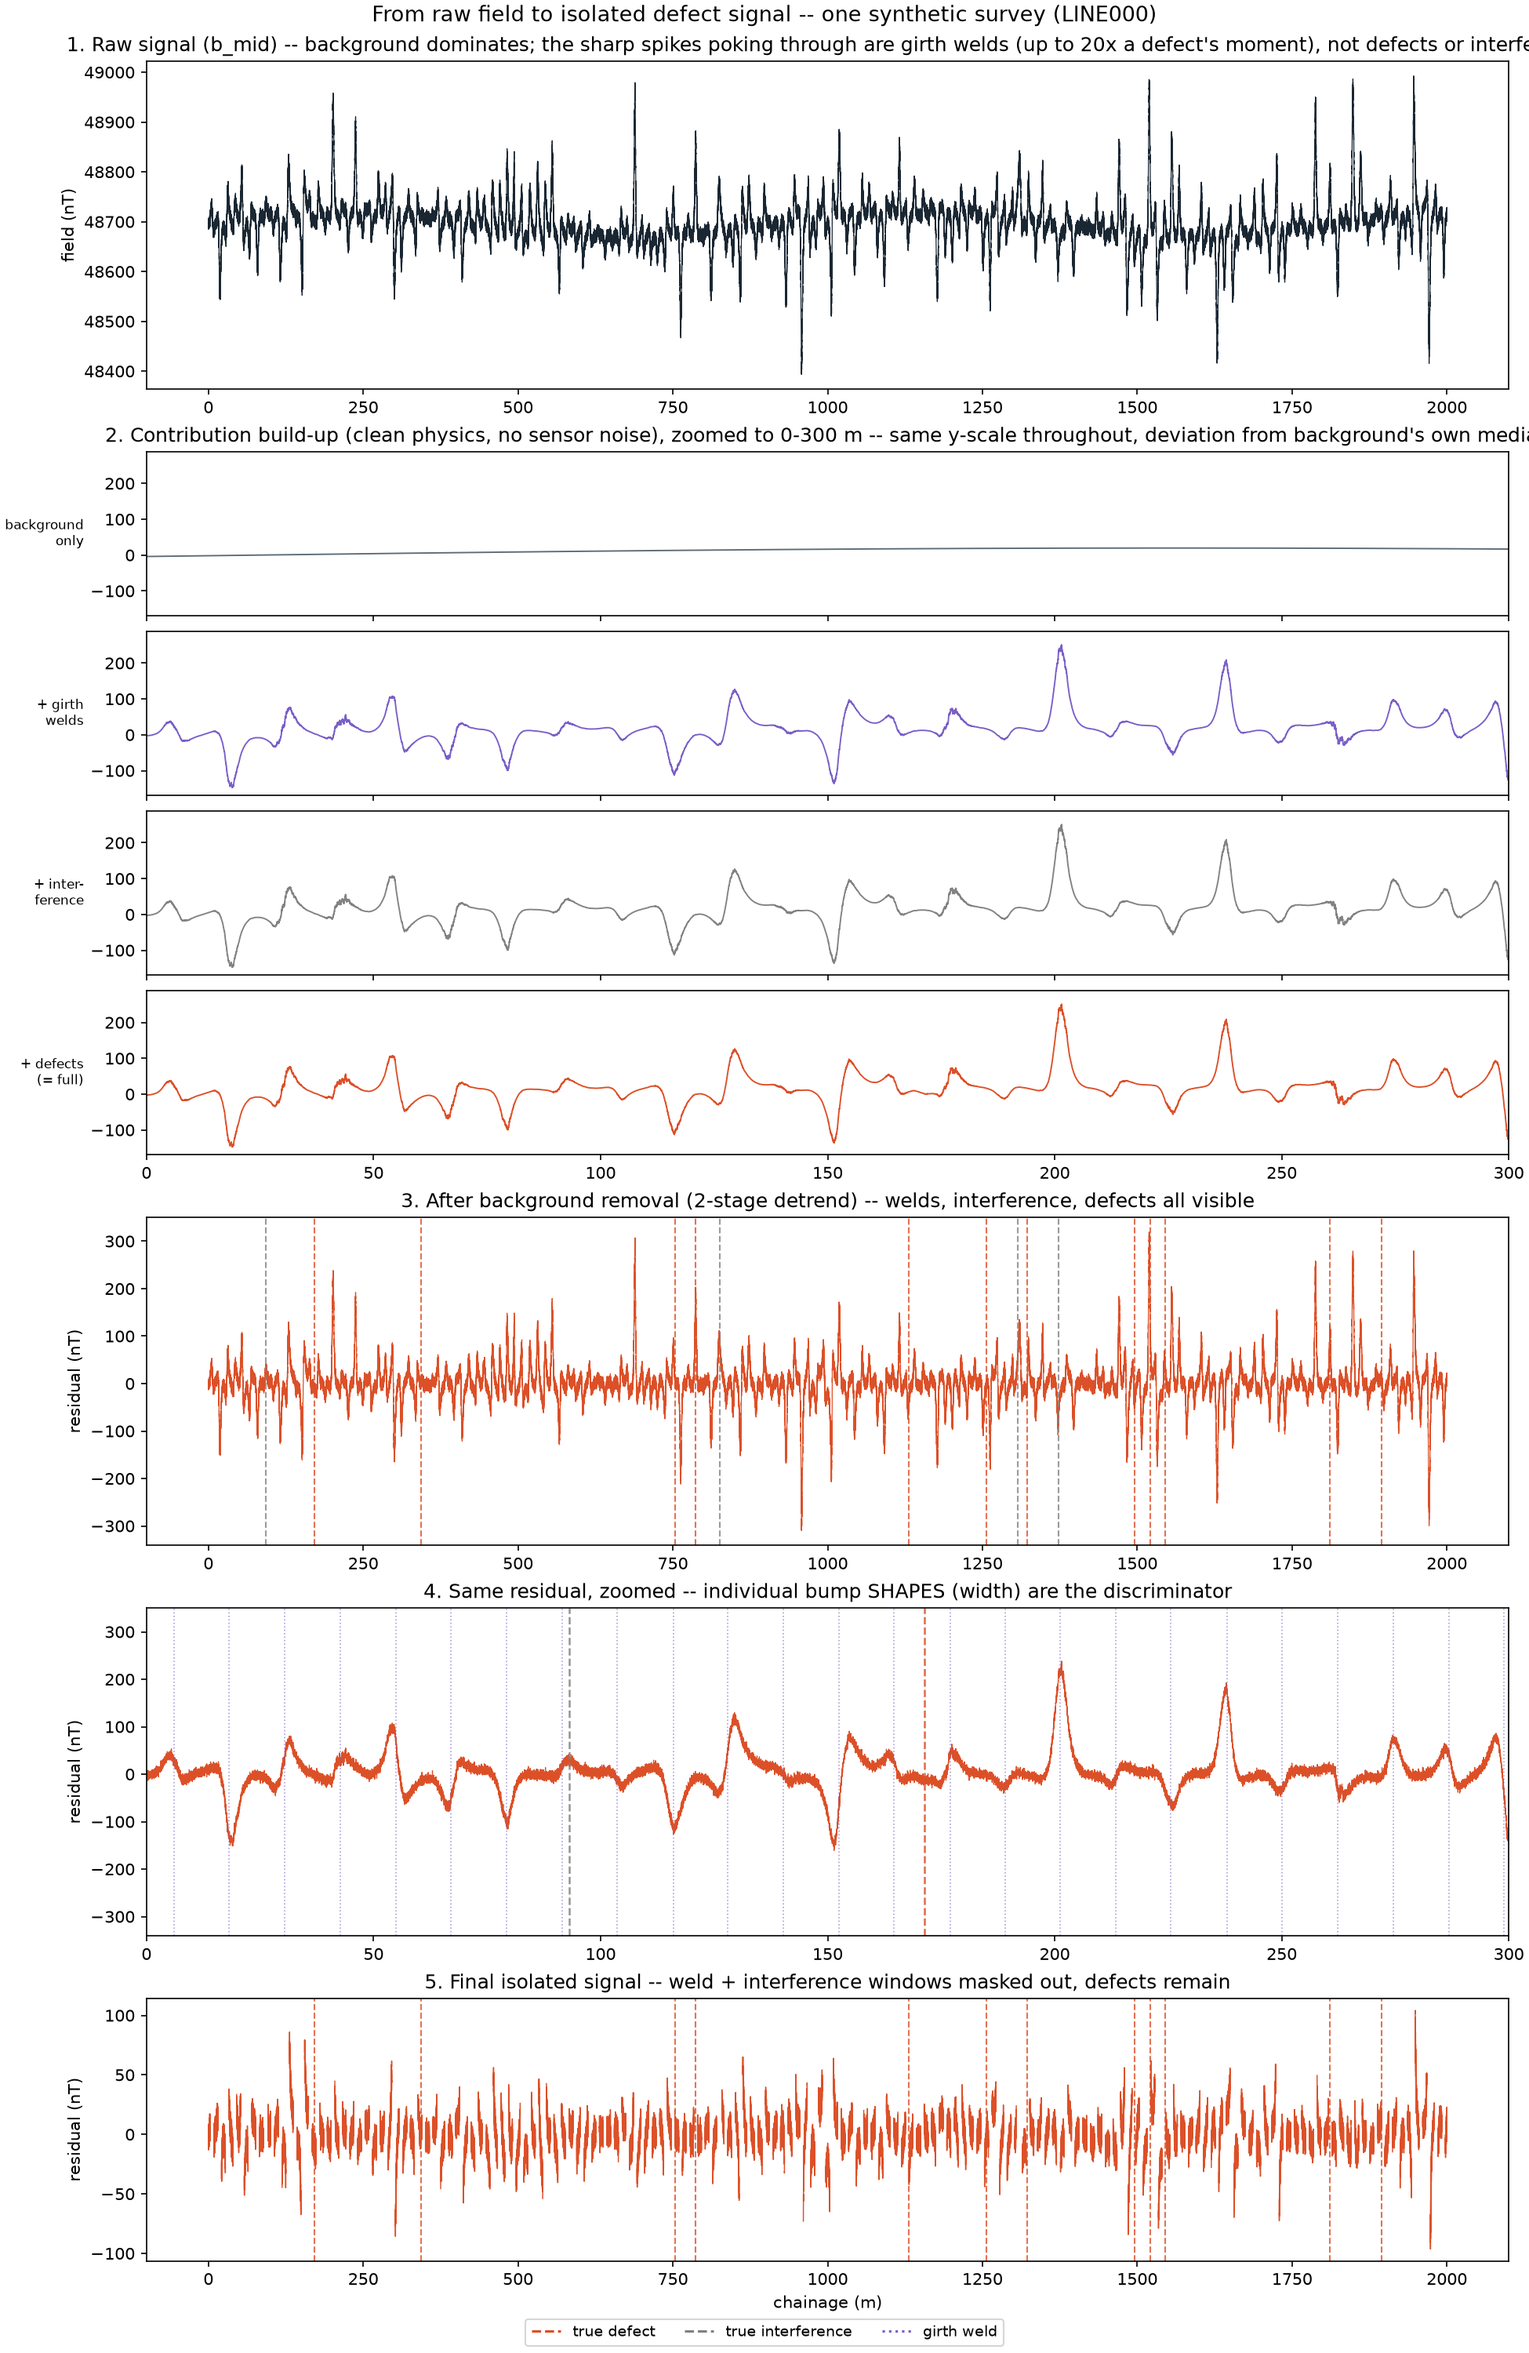
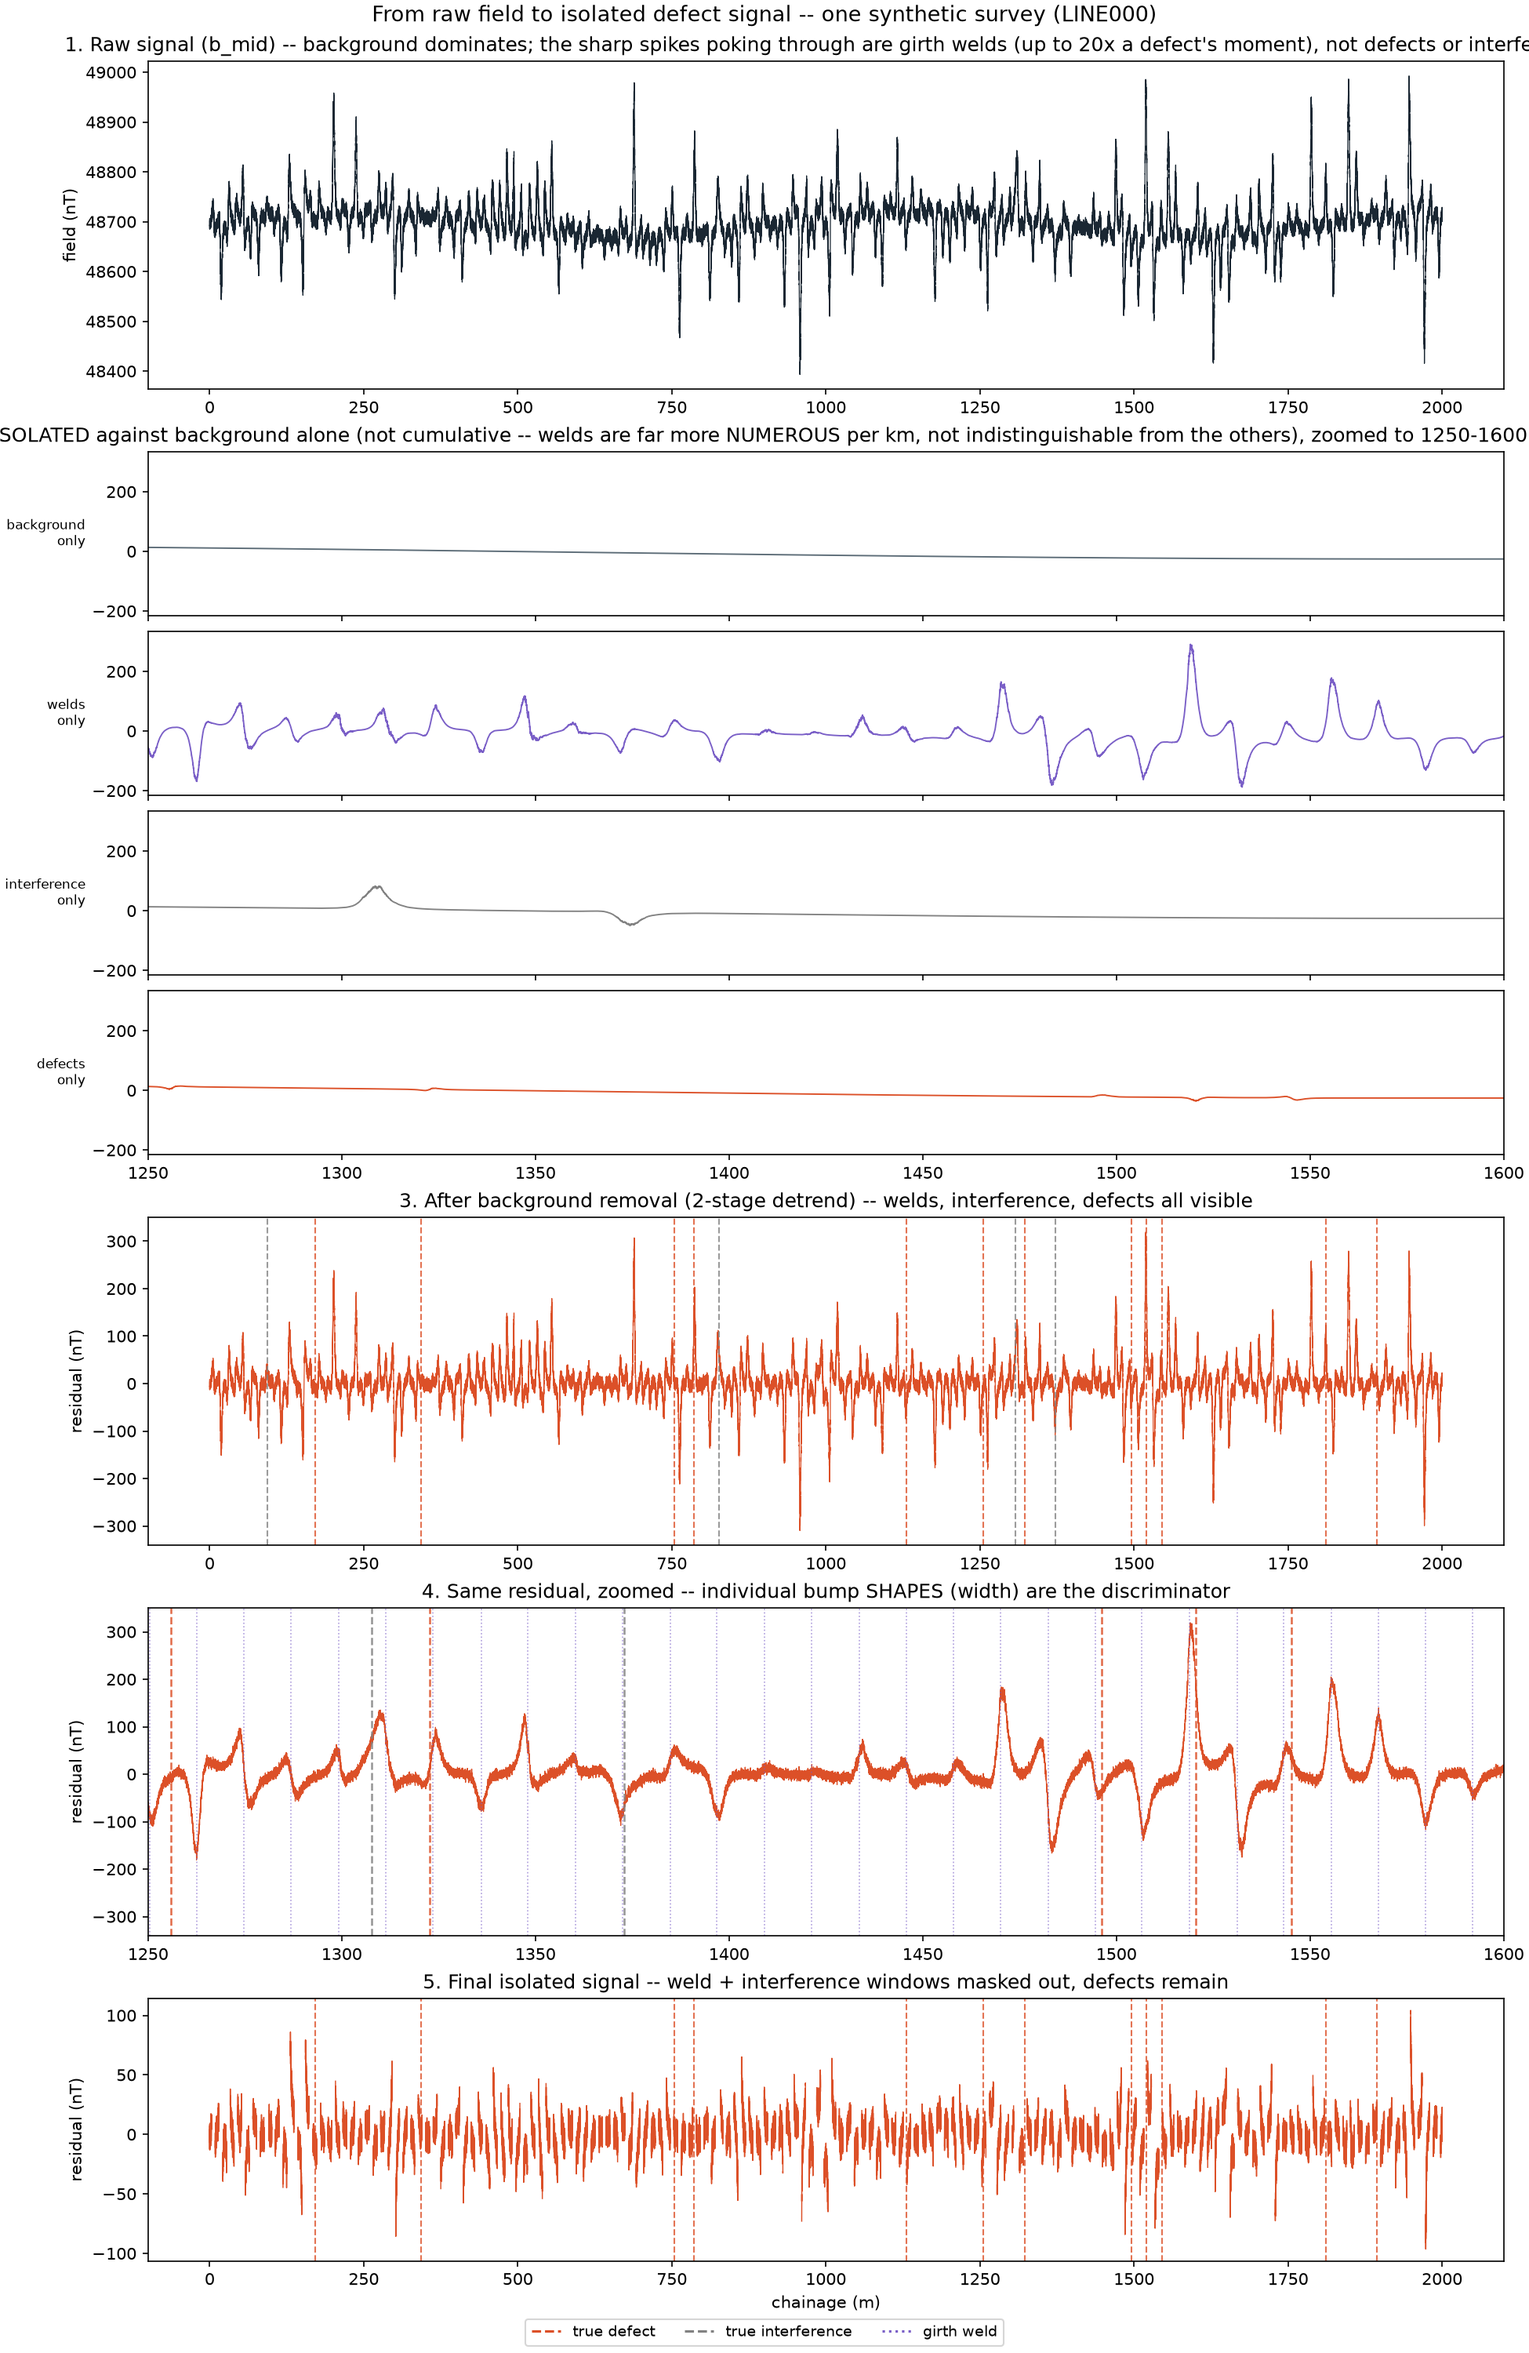
Interference/defect physics refinement from developer-team follow-up
Two corrections from further interview feedback:

1. Interference amplitude was a single fixed 50x moment-scale constant for
   every source. The team's follow-up: real interference runs "a bit
   weaker in most cases," and its strength varies source to source
   independently of distance. Replaced with interference_moment_scale_range
   [30, 50], drawn per-source -- y_off_m's existing 3-8 m draw still
   handles distance; this varies strength on top of it, not instead.

2. All 4 defect types (SCC/weld/dent/corrosion) shared one severity range
   (20-80), carrying zero distinguishing physical signal by construction.
   Team does not trust a shape distinction (a point-dipole model has no
   principled way to fake one honestly), but does expect intensity to
   differ by type. Added DEFECT_SEVERITY_RANGES: dent 40-80 (sharp
   mechanical stress concentration, strongest), corrosion 20-70 (gradual
   metal loss, moderate), SCC 15-50 (fine diffuse cracks, weakest), weld
   15-45 (best-controlled workmanship class per train.py's own
   consequence-proxy comment).

stress_polarity: random was already the default -- tension enhancing or
degrading the signal was already modelled; no change needed there.

Fixed a pre-existing fragile test whose n_defects=80/n_interference=20
"too dense to place" assertion depended on a specific seed happening to
exhaust placement retries -- this change's shifted RNG trajectory flipped
that outcome. Replaced with n_defects=300 alone, mathematically
[…]

diff --git a/scripts/plot_signal_decomposition.py b/scripts/plot_signal_decomposition.py
@@ -107,14 +107,26 @@ def build(cfg, seed: int) -> dict:
         (defect_sources if f["is_defect"] else interference_sources).append((src, moment))
 
     B_background = B_bg.copy()
-    B_plus_welds = B_background + _field_sum(obs_mid, weld_sources, n)
-    B_plus_interference = B_plus_welds + _field_sum(obs_mid, interference_sources, n)
-    B_plus_defects = B_plus_interference + _field_sum(obs_mid, defect_sources, n)  # clean, pre-sensor
+    # Full cumulative build (for the raw-signal/residual panels) ...
+    B_full = (
+        B_background
+        + _field_sum(obs_mid, weld_sources, n)
+        + _field_sum(obs_mid, interference_sources, n)
+        + _field_sum(obs_mid, defect_sources, n)
+    )
+    # ... and each category ISOLATED against background alone (for panel 2) --
+    # NOT cumulative, so welds' sheer numeric density (~163/line) can't drown
+    # out interference/defects' much rarer (4, 12 total) but individually
+    # comparable-or-larger contributions the way a cumulative build does.
+    B_welds_only = B_background + _field_sum(obs_mid, weld_sources, n)
+    B_interference_only = B_background + _field_sum(obs_mid, interference_sources, n)
+    B_defects_only = B_background + _field_sum(obs_mid, defect_sources, n)
 
     mag_background = np.linalg.norm(B_background, axis=1)
-    mag_welds = np.linalg.norm(B_plus_welds, axis=1)
-    mag_interference = np.linalg.norm(B_plus_interference, axis=1)
-    mag_full_clean = np.linalg.norm(B_plus_defects, axis=1)
+    mag_welds_only = np.linalg.norm(B_welds_only, axis=1)
+    mag_interference_only = np.linalg.norm(B_interference_only, axis=1)
+    mag_defects_only = np.linalg.norm(B_defects_only, axis=1)
+    mag_full_clean = np.linalg.norm(B_full, axis=1)
 
     b_mid_noisy = _apply_sensor(rng, mag_full_clean, data_cfg.sensor, n)
     r_mid = detrend_axis(s_true, b_mid_noisy, cfg.base.features)
@@ -122,8 +134,9 @@ def build(cfg, seed: int) -> dict:
     return {
         "s_true": s_true,
         "mag_background": mag_background,
-        "mag_welds": mag_welds,
-        "mag_interference": mag_interference,
+        "mag_welds_only": mag_welds_only,
+        "mag_interference_only": mag_interference_only,
+        "mag_defects_only": mag_defects_only,
         "mag_full_clean": mag_full_clean,
         "b_mid_noisy": b_mid_noisy,
         "r_mid": r_mid,
@@ -160,17 +173,21 @@ def plot(result: dict, zoom: tuple[float, float], save: Path | None) -> None:
                  "are girth welds (up to 20x a defect's moment), not defects or interference")
     ax.set_ylabel("field (nT)")
 
-    # 2. Cumulative contribution build-up as small multiples (sharing one
-    # y-scale), ZOOMED to the same window as panel 4 -- tried at full 2000 m
-    # first and it wasn't useful: welds alone (163 of them) already fill the
-    # view at that scale, so "+interference" and "+defects" were visually
-    # indistinguishable from "+welds" except by eye-hunting individual pixels.
-    # Zoomed, each stage's own marginal contribution is actually visible.
+    # 2. Each source ISOLATED against background alone (NOT cumulative), small
+    # multiples sharing one y-scale, zoomed to the same window as panel 4.
+    # A cumulative build (background -> +welds -> +welds+interference ->
+    # +everything) was tried first and was misleading: ~24 welds fall in any
+    # 300 m window vs. ~1 interference source and ~1 defect, so a cumulative
+    # sum makes the later, rarer additions nearly invisible next to welds'
+    # sheer numeric density -- reading as "they're all the same" when what's
+    # actually true is "welds are far more NUMEROUS, not indistinguishable."
+    # Isolating each category against the same background baseline makes
+    # each one's own contribution directly comparable.
     stage_specs = [
         ("background\nonly", result["mag_background"], BG_COLOR),
-        ("+ girth\nwelds", result["mag_welds"], WELD_STAGE_COLOR),
-        ("+ inter-\nference", result["mag_interference"], INTERFERENCE_STAGE_COLOR),
-        ("+ defects\n(= full)", result["mag_full_clean"], DEFECT_STAGE_COLOR),
+        ("welds\nonly", result["mag_welds_only"], WELD_STAGE_COLOR),
+        ("interference\nonly", result["mag_interference_only"], INTERFERENCE_STAGE_COLOR),
+        ("defects\nonly", result["mag_defects_only"], DEFECT_STAGE_COLOR),
     ]
     med_bg = np.median(result["mag_background"])
     zoom_mask = (s >= zoom[0]) & (s <= zoom[1])
@@ -183,9 +200,9 @@ def plot(result: dict, zoom: tuple[float, float], save: Path | None) -> None:
         ax.set_ylim(*ylim)
         ax.set_ylabel(label, fontsize=8, rotation=0, ha="right", va="center")
         if i == 0:
-            ax.set_title(f"2. Contribution build-up (clean physics, no sensor noise), zoomed to "
-                         f"{zoom[0]:.0f}-{zoom[1]:.0f} m -- same y-scale throughout, deviation from "
-                         f"background's own median")
+            ax.set_title(f"2. Each source ISOLATED against background alone (not cumulative -- "
+                         f"welds are far more NUMEROUS per km, not indistinguishable from the "
+                         f"others), zoomed to {zoom[0]:.0f}-{zoom[1]:.0f} m, same y-scale throughout")
         if i < len(stage_specs) - 1:
             ax.set_xticklabels([])
 

diff --git a/src/lsm/generate.py b/src/lsm/generate.py
@@ -218,12 +218,33 @@ def _sample_spaced_chainage(
     )
 
 
+# Per-type severity (dipole moment magnitude) ranges -- developer-team
+# follow-up feedback: the team does not trust a SHAPE distinction between
+# defect types (a point-dipole model has no principled way to fake one
+# honestly, since footprint width is governed by depth/offset, and every
+# defect sits at y_off_m=0), but each type DOES plausibly carry a different
+# INTENSITY. Physics-inspired reasoning, not calibrated to real ROSEN data:
+# dent = a sharp mechanical stress concentration, the strongest signature;
+# SCC = fine, branching cracks, more diffuse, weakest; corrosion = gradual
+# metal loss, moderate; weld (workmanship anomaly at a joint, distinct from
+# the periodic girth-weld TRAIN in _build_welds) = the best-controlled
+# class per train.py's own consequence-proxy comment, so the smallest/most
+# consistent range. Replaces the old single shared 20-80 range every type
+# drew from, which carried zero physical signal by construction.
+DEFECT_SEVERITY_RANGES: dict[str, tuple[float, float]] = {
+    "dent": (40.0, 80.0),
+    "corrosion": (20.0, 70.0),
+    "scc": (15.0, 50.0),
+    "weld": (15.0, 45.0),
+}
+
+
 def _build_features(cfg: DataConfig, rng: np.random.Generator) -> list[dict]:
     """Defects and interference sources -- unchanged by Rig-v2. Girth welds are
     a structurally different (periodic, not rejection-sampled) source train,
     built separately by `_build_welds`.
     """
-    types = ["scc", "weld", "dent", "corrosion"]
+    types = list(DEFECT_SEVERITY_RANGES)
     feats = []
     placed: list[tuple[float, float]] = []  # (chainage_m, half_width_m), for spacing checks
     # y_off_m=0 for every defect, so r_eff=depth_m and the half-width is the
@@ -233,12 +254,13 @@ def _build_features(cfg: DataConfig, rng: np.random.Generator) -> list[dict]:
     for _ in range(cfg.n_defects):
         chainage = _sample_spaced_chainage(rng, 50, cfg.length_m - 50, defect_half_width, placed)
         placed.append((chainage, defect_half_width))
+        defect_type = rng.choice(types)
         feats.append(
             {
                 "chainage_m": chainage,
                 "y_off_m": 0.0,
-                "type": rng.choice(types),
-                "severity": rng.uniform(20, 80),
+                "type": defect_type,
+                "severity": rng.uniform(*DEFECT_SEVERITY_RANGES[defect_type]),
                 "orientation": rng.normal(0, 1, 3),
                 "is_defect": True,
             }
@@ -250,19 +272,24 @@ def _build_features(cfg: DataConfig, rng: np.random.Generator) -> list[dict]:
         # scale factor 1/r^3 from 3-8 m lateral puts every interference source
         # below the ~8 nT noise floor (a source at 5.5 m lateral peaks at 0.9 nT
         # for a defect-scale moment), and the "designed false-positive trap"
-        # traps nothing. Scaled this way it arrives at DEFECT-COMPARABLE
+        # traps nothing. Scaled this way it arrives at roughly DEFECT-COMPARABLE
         # amplitude but visibly BROADER, which is the discrimination the whole
         # project turns on: shape separates it, amplitude does not.
+        # The scale itself is drawn per-source, not fixed -- developer-team
+        # follow-up: real interference runs "a bit weaker in most cases," and
+        # its strength varies independently of distance (y_off_m's own 3-8 m
+        # draw already covers distance; this varies the moment on top of it).
         y_off_m = rng.uniform(3, 8) * rng.choice([-1, 1])
         half_width = cfg.label_window_scale * float(np.hypot(cfg.depth_m, y_off_m))
         chainage = _sample_spaced_chainage(rng, 50, cfg.length_m - 50, half_width, placed)
         placed.append((chainage, half_width))
+        moment_scale = rng.uniform(*cfg.interference_moment_scale_range)
         feats.append(
             {
                 "chainage_m": chainage,
                 "y_off_m": y_off_m,
                 "type": "interference",
-                "severity": rng.uniform(30, 90) * cfg.interference_moment_scale,
+                "severity": rng.uniform(30, 90) * moment_scale,
                 "orientation": rng.normal(0, 1, 3),
                 "is_defect": False,
             }

diff --git a/tests/test_generate.py b/tests/test_generate.py
@@ -141,9 +141,15 @@ def test_build_features_defect_count_survives_into_generated_labels(cfg, tmp_pat
 def test_build_features_raises_loudly_when_too_dense_to_place(cfg):
     """Too many features for the line length must fail loudly, not silently
     corrupt spacing by giving up the constraint.
+
+    n_defects=300 alone needs >= 300*(2*label_window_scale*depth_m + margin)
+    = 300*8 = 2400 m of minimum spacing on a line with ~1900 m usable after
+    edge margins -- mathematically infeasible regardless of RNG trajectory,
+    deliberately not a knife-edge count that depends on exactly how many
+    retries a specific seed happens to burn before giving up.
     """
-    cfg.base.data.n_defects = 80
-    cfg.base.data.n_interference = 20
+    cfg.base.data.n_defects = 300
+    cfg.base.data.n_interference = 0
     rng = np.random.default_rng(cfg.seed)
     with pytest.raises(RuntimeError):
         _build_features(cfg.base.data, rng)

diff --git a/src/lsm/config.py b/src/lsm/config.py
@@ -178,7 +178,14 @@ class DataConfig(BaseModel):
     noise_nT: float
     n_defects: int
     n_interference: int
-    interference_moment_scale: float = 1.0
+    # A range, not a fixed constant -- the developer team's follow-up point:
+    # real external interference is "a bit weaker in most cases" than a
+    # single uniform 50x figure implies, and its strength varies source to
+    # source independently of distance (distance/geometry is already
+    # captured by y_off_m's own 3-8 m draw in _build_features -- this scales
+    # the MOMENT on top of that, not instead of it). Drawn once per
+    # interference source in _build_features, not once per survey.
+    interference_moment_scale_range: tuple[float, float] = (30.0, 50.0)
     label_window_scale: float
     n_runs: int
     growth: float
